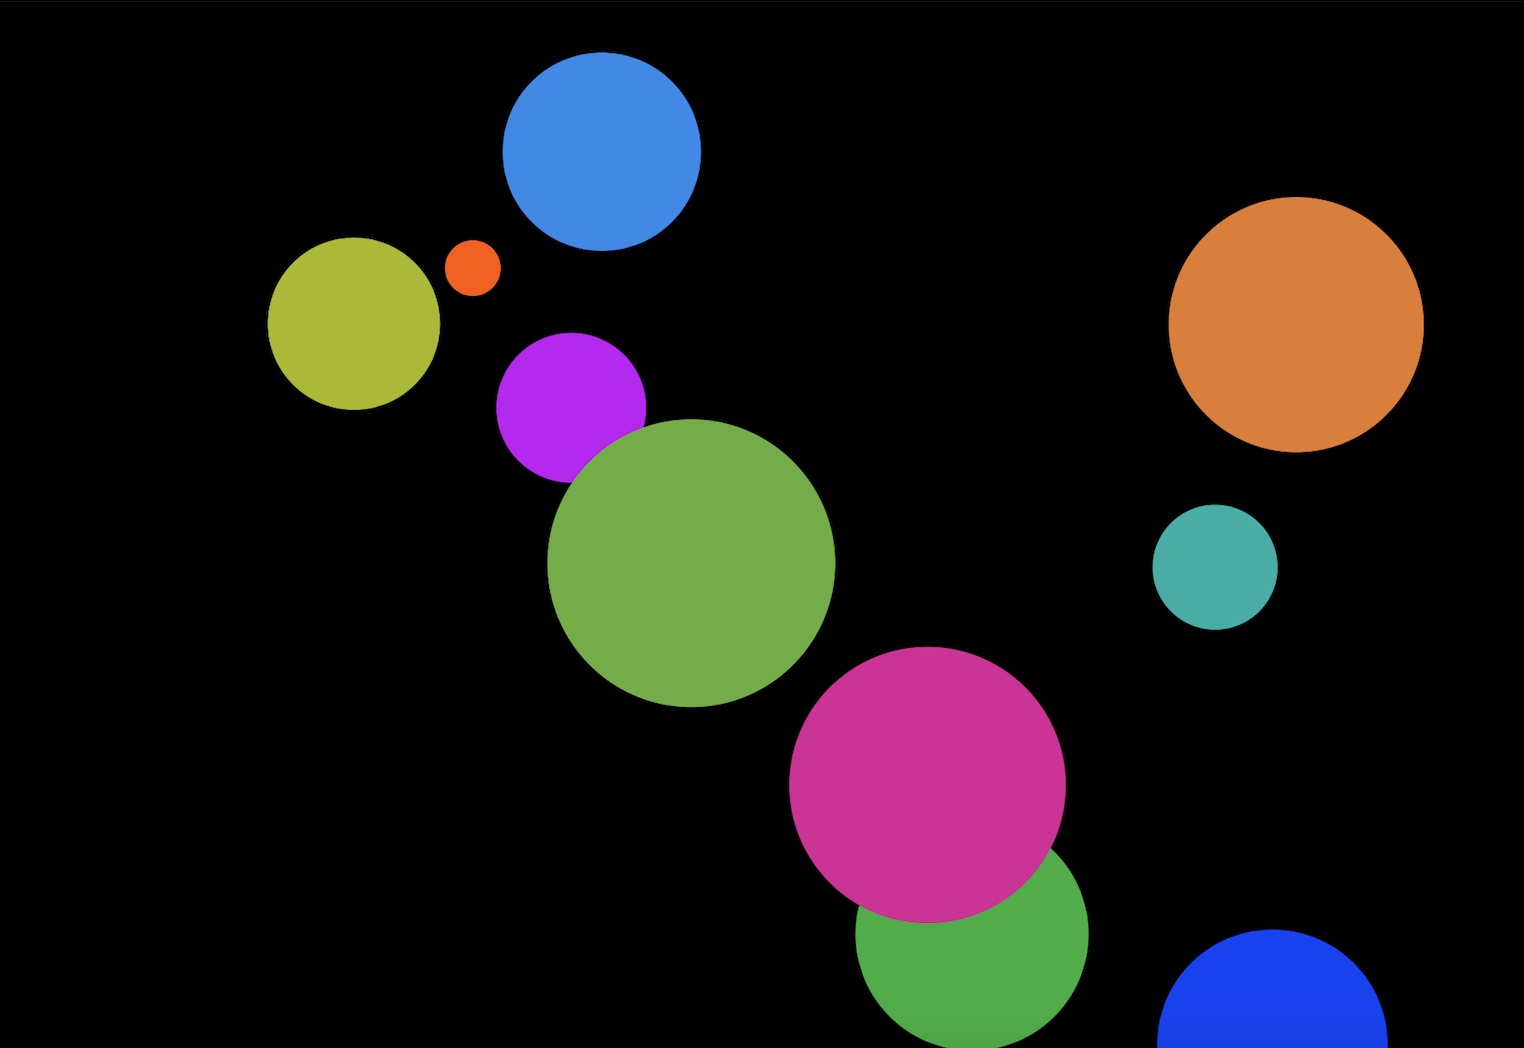
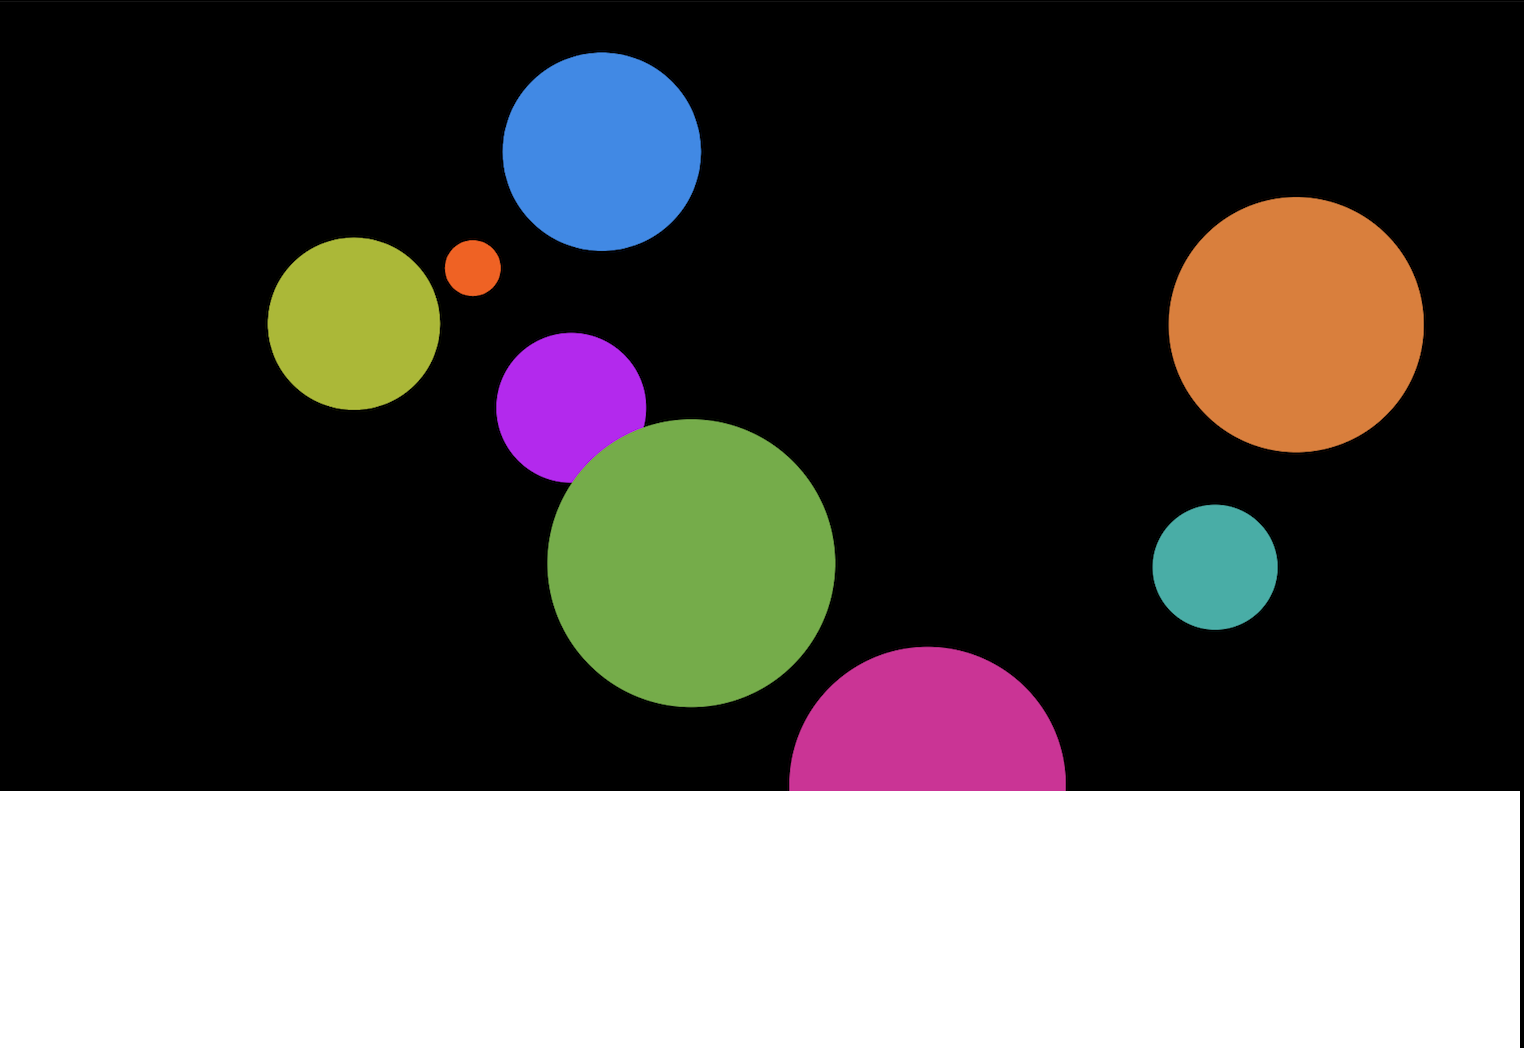
changed bkg

Changed region(s): [[0.0, 0.7328, 1.0, 1.0]]

diff --git a/server/static/css/style.css b/server/static/css/style.css
@@ -1,6 +1,6 @@
 body {
   background-image: url("/images/homeImage1.png");
-  background-repeat: cover;
+  background-repeat: no-repeat, cover;
   
   margin: 0;
   font-size: 16px;
